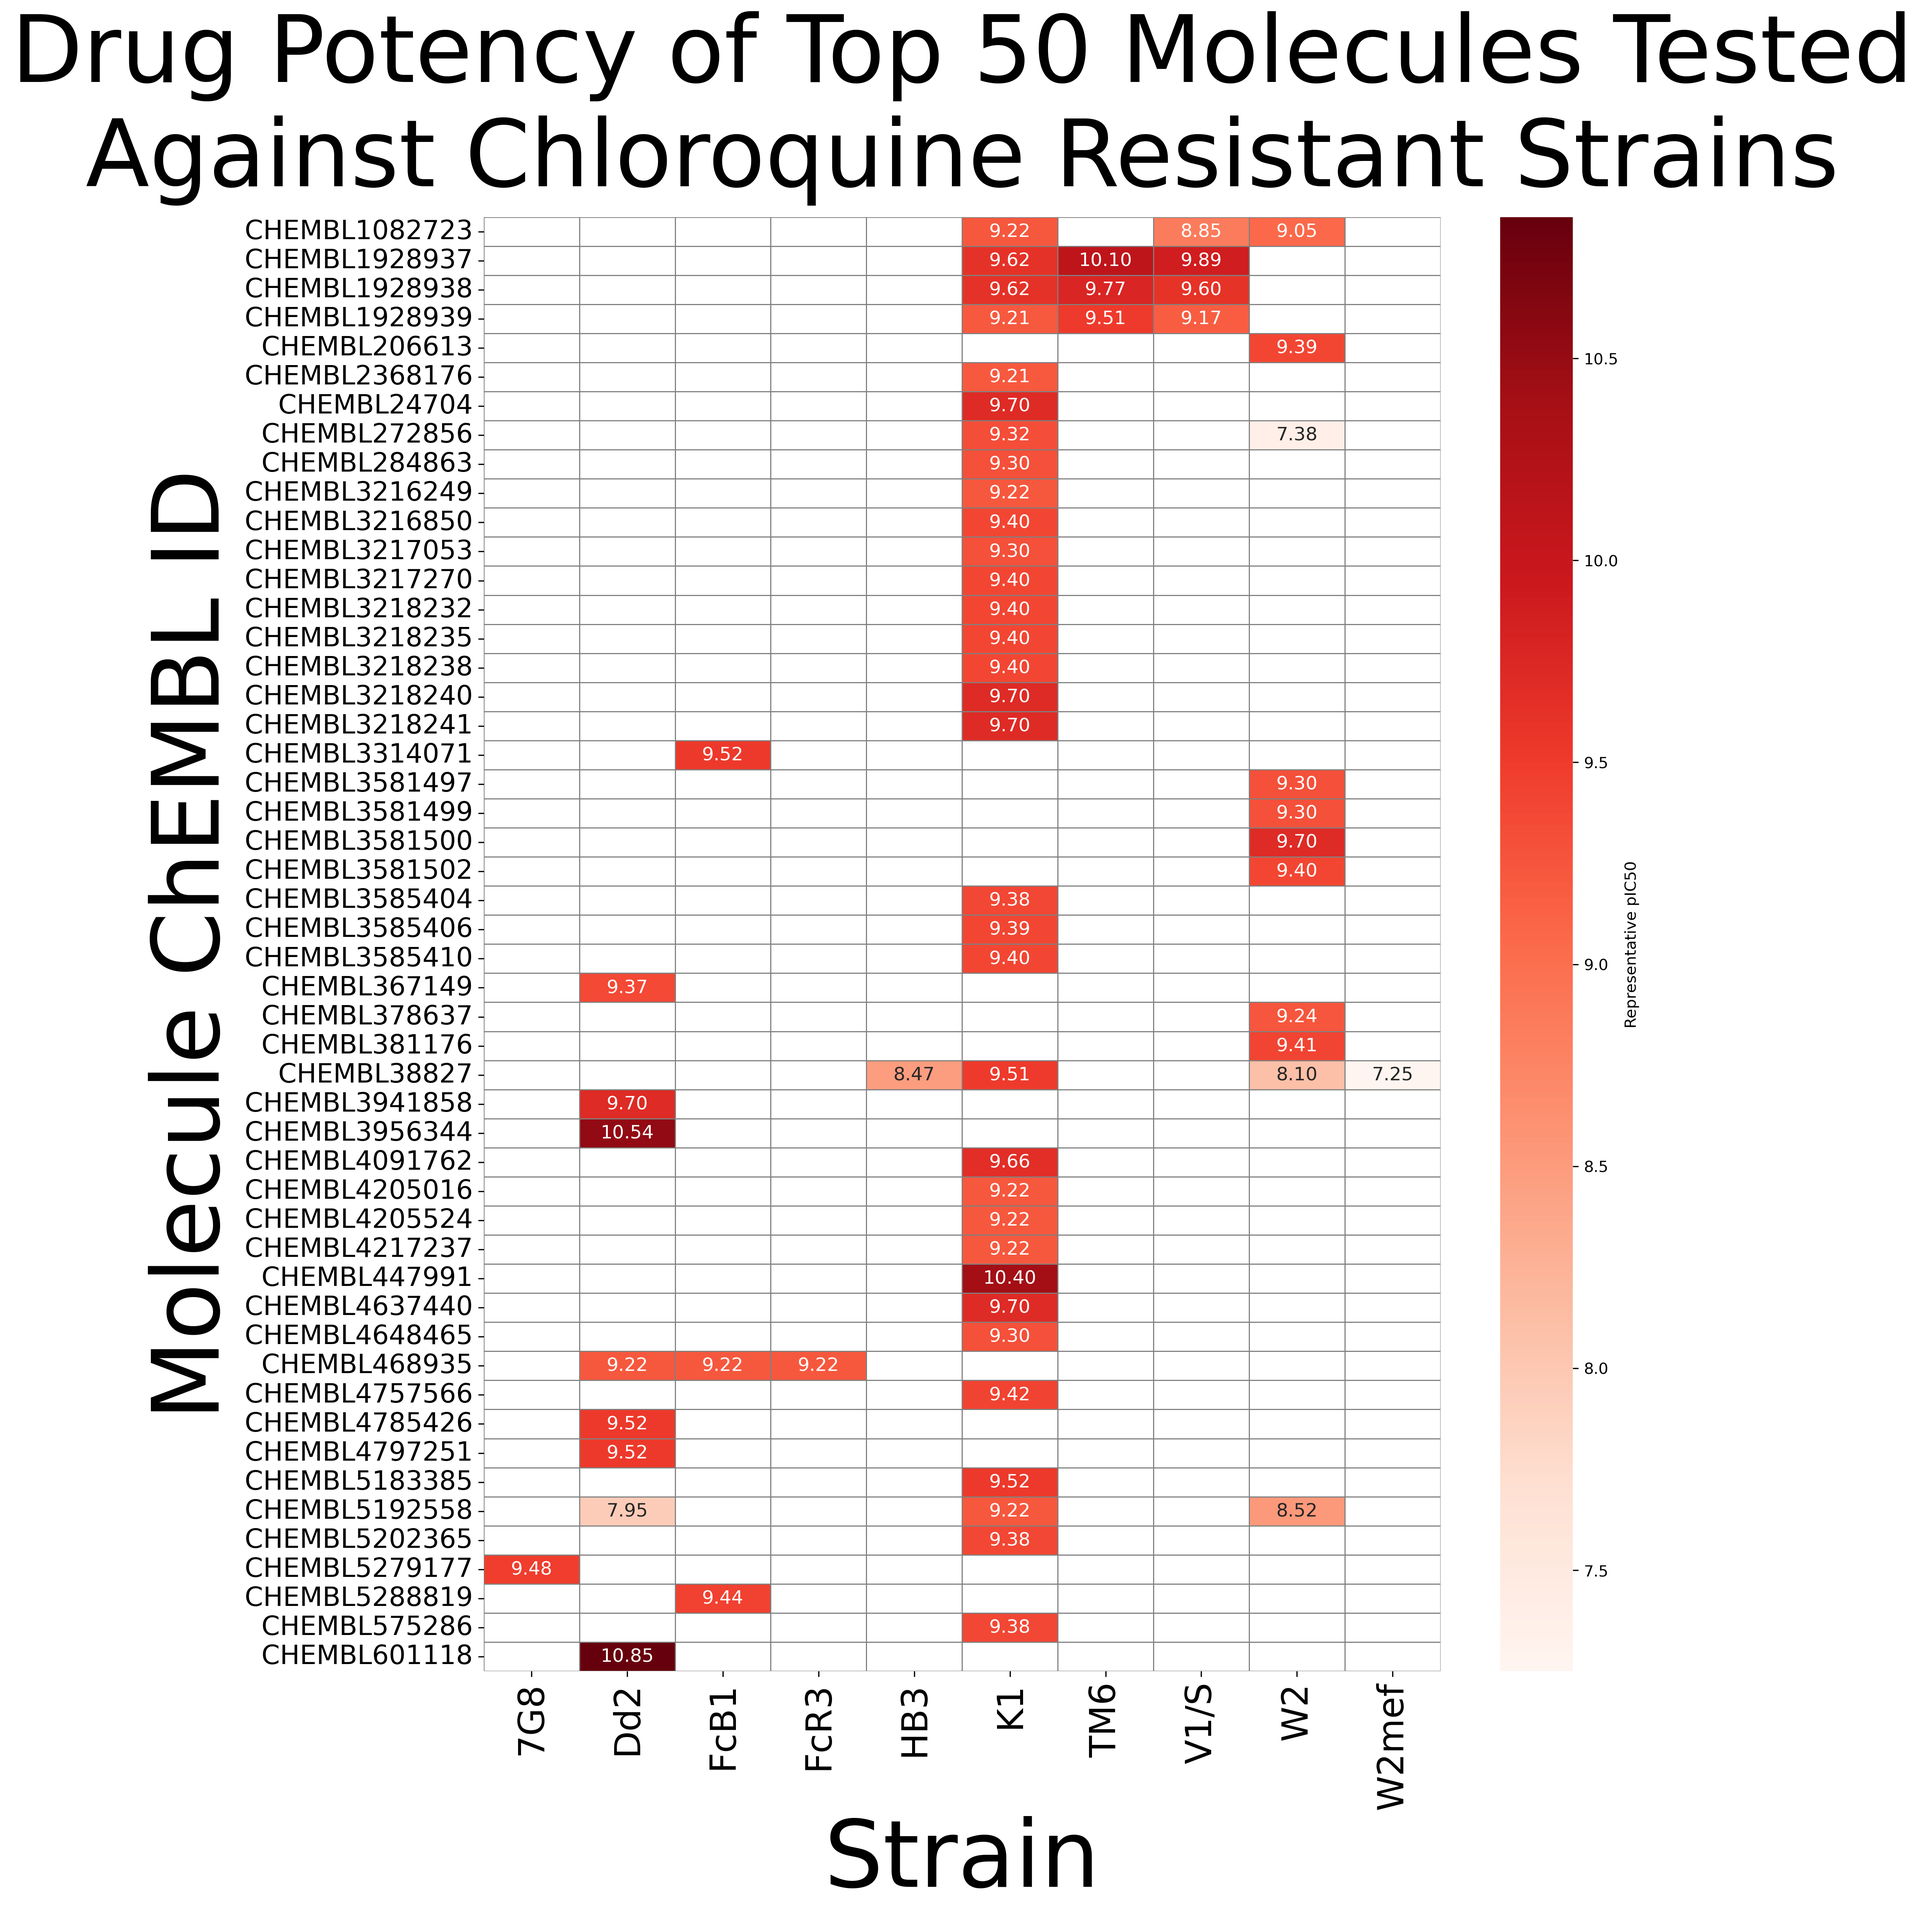
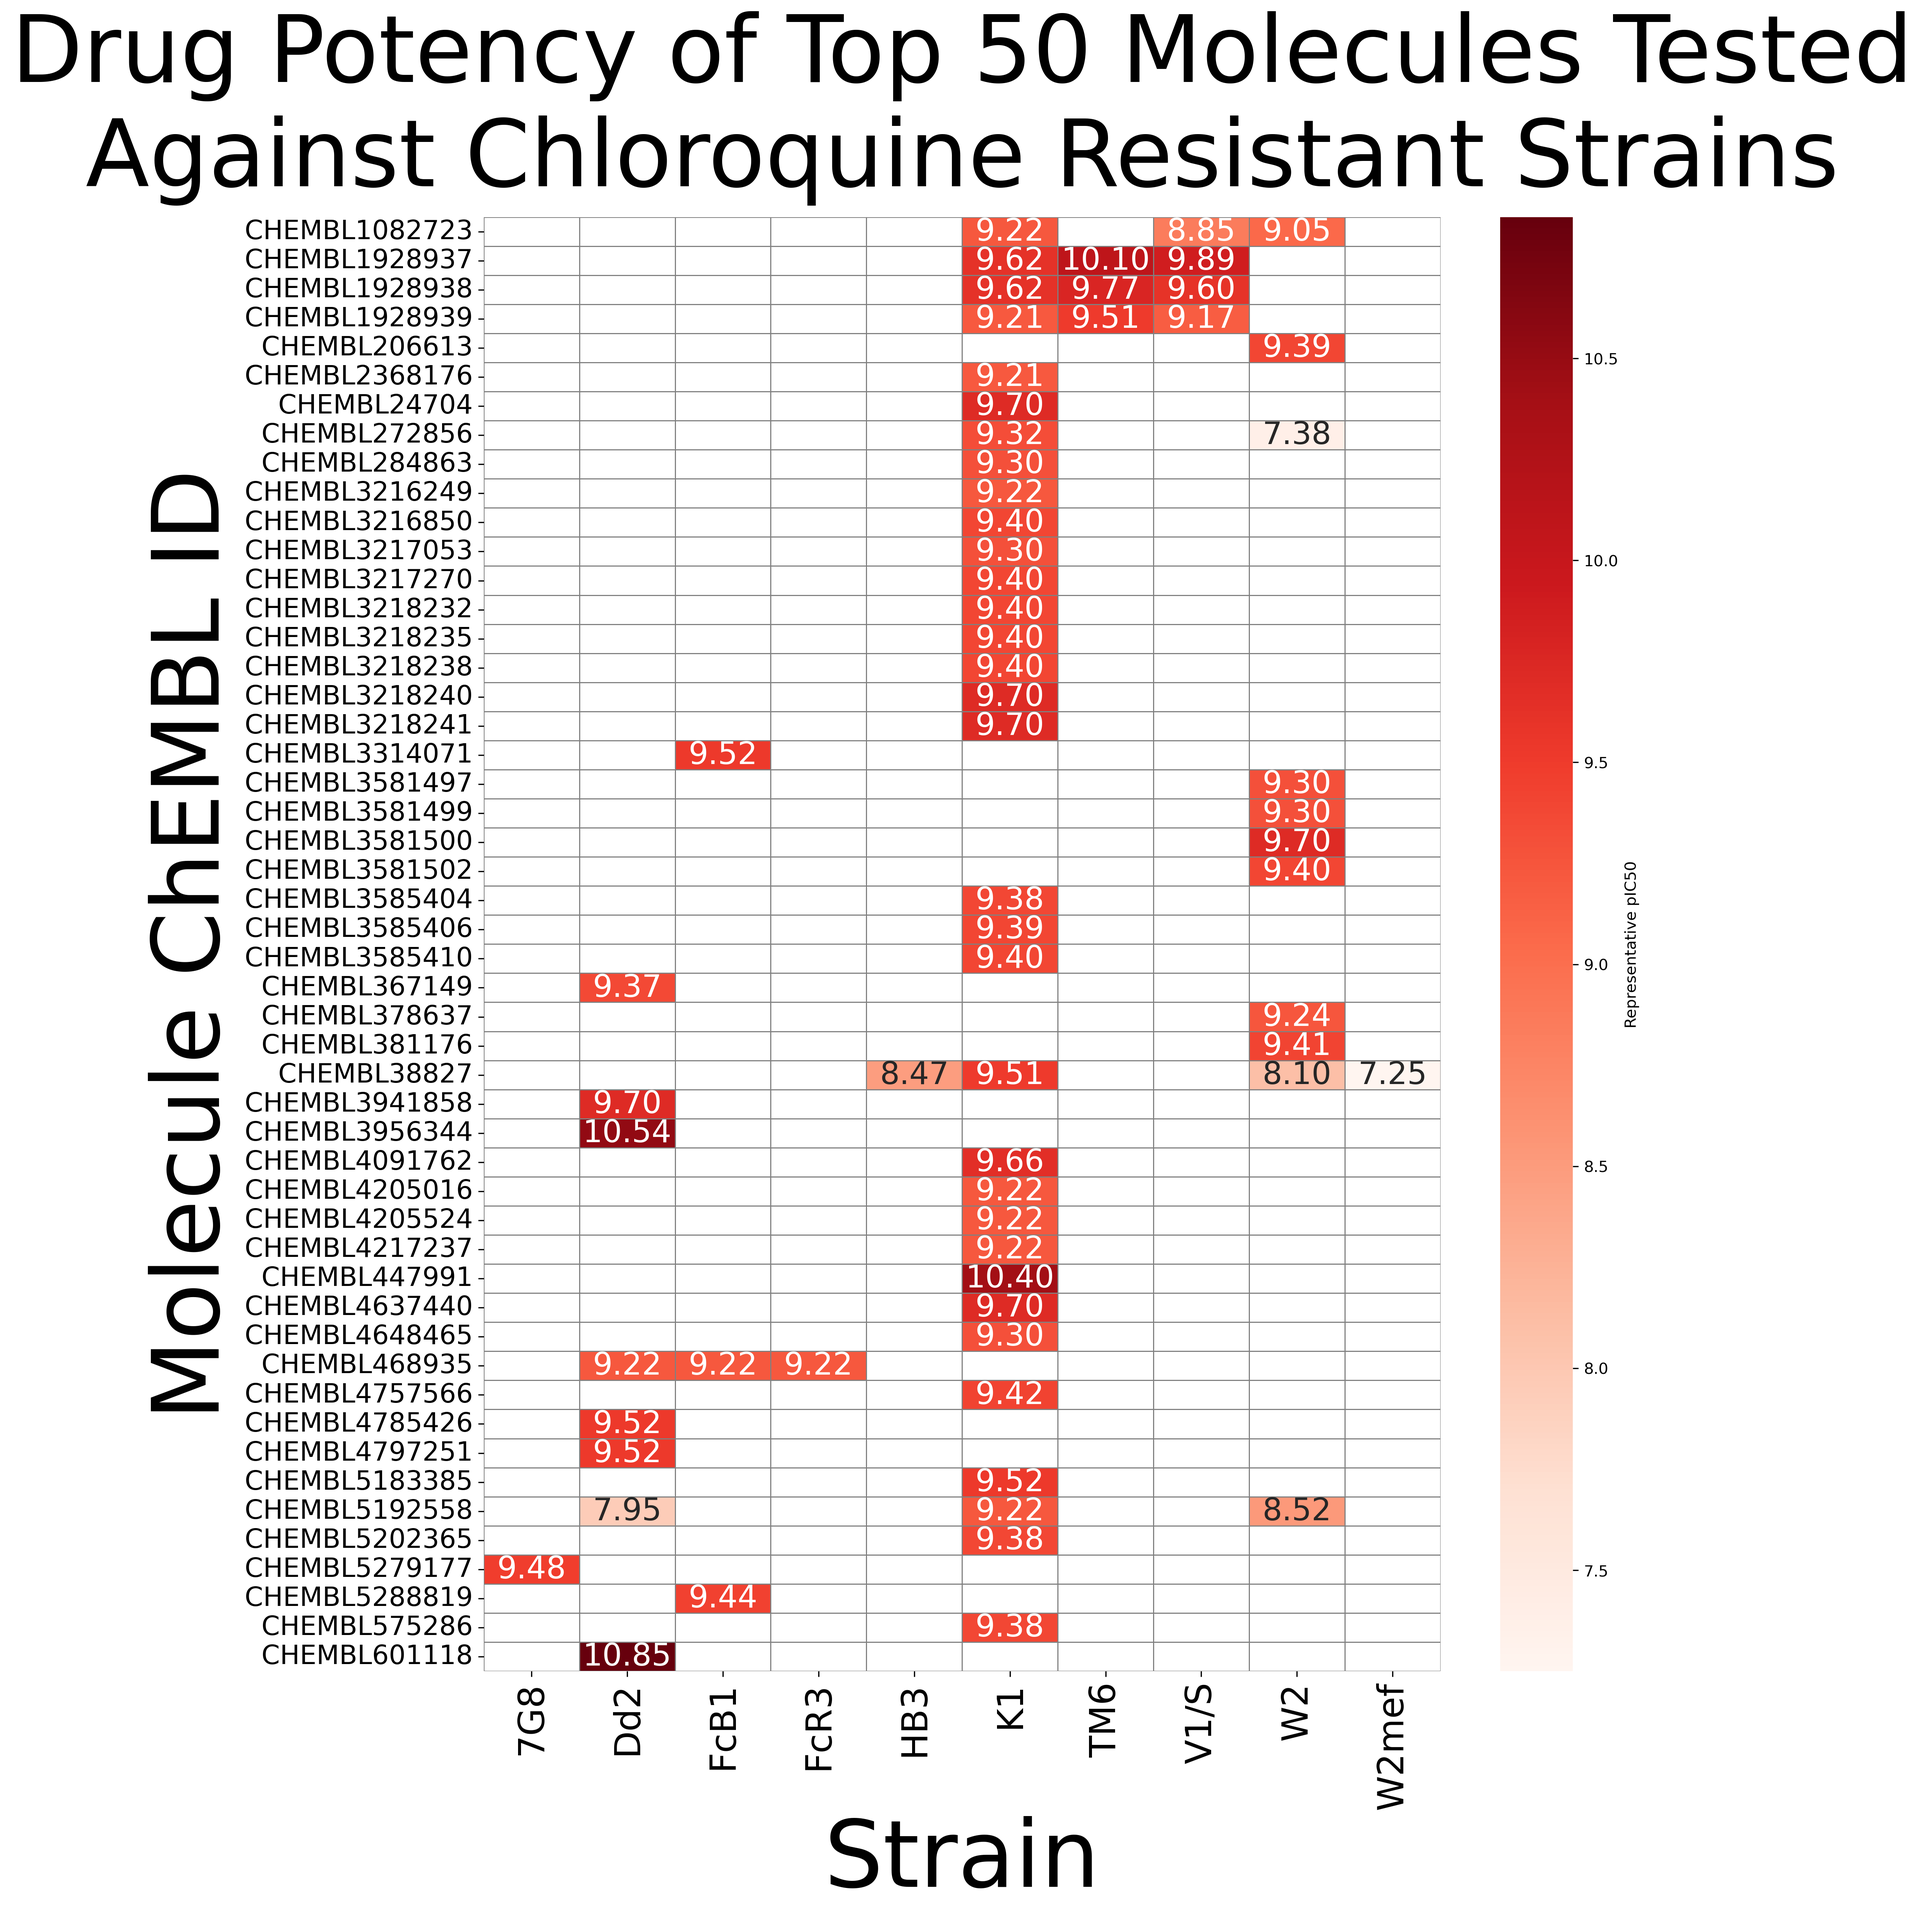
pushes to heatmap 2.0

diff --git a/p1_preprocessing/3 - Data visualizations before splits/drug_resistance/2_gen_drug_resistance_heatmap.py b/p1_preprocessing/3 - Data visualizations before splits/drug_resistance/2_gen_drug_resistance_heatmap.py
@@ -56,7 +56,7 @@ ax = sns.heatmap(
     annot=True,
     fmt='.2f',
     cbar_kws={'label': 'Representative pIC50'},
-    annot_kws={'size': 12},
+    annot_kws={'size': 20},
     linewidths=0.25,
     linecolor='gray'
 )
@@ -113,19 +113,19 @@ ax = sns.heatmap(
     annot=True,
     fmt='.2f',
     cbar_kws={'label': 'Representative pIC50'},
-    annot_kws={'size': 12},
+    annot_kws={'size': 20},
     linewidths=0.25,
     linecolor='gray'
 )
 
 # Rotate axis labels
-ax.set_xticklabels(ax.get_xticklabels(), rotation=90, ha='center', fontsize=12)
-ax.set_yticklabels(ax.get_yticklabels(), rotation=0, fontsize=12)
+ax.set_xticklabels(ax.get_xticklabels(), rotation=90, ha='center', fontsize=23)
+ax.set_yticklabels(ax.get_yticklabels(), rotation=0, fontsize=17)
 
 # Adjust layout and title
-plt.title("Drug Potency of Top 50 Molecules Tested Against Mefloquine Resistant Strains", pad=20, fontsize=15)
-plt.xlabel('Strain', fontsize=12)
-plt.ylabel('Molecule ChEMBL ID', fontsize=12)
+plt.title("Drug Potency of Top 50 Molecules Tested\nAgainst Mefloquine Resistant Strains", pad=20, fontsize=60)
+plt.xlabel('Strain', fontsize=60)
+plt.ylabel('Molecule ChEMBL ID', fontsize=60)
 plt.tight_layout()
 plt.subplots_adjust(bottom=0.25) 
 plt.savefig('./p1_preprocessing/3 - Data visualizations before splits/drug_resistance/mefr_hm.png', dpi=300, bbox_inches='tight')
@@ -170,7 +170,7 @@ ax = sns.heatmap(
     annot=True,
     fmt='.2f',
     cbar_kws={'label': 'Representative pIC50'},
-    annot_kws={'size': 12},
+    annot_kws={'size': 20},
     linewidths=0.25,
     linecolor='gray'
 )
@@ -286,7 +286,7 @@ ax = sns.heatmap(
     annot=True,
     fmt='.2f',
     cbar_kws={'label': 'Representative pIC50'},
-    annot_kws={'size': 12},
+    annot_kws={'size': 20},
     linewidths=0.25,
     linecolor='gray'
 )
